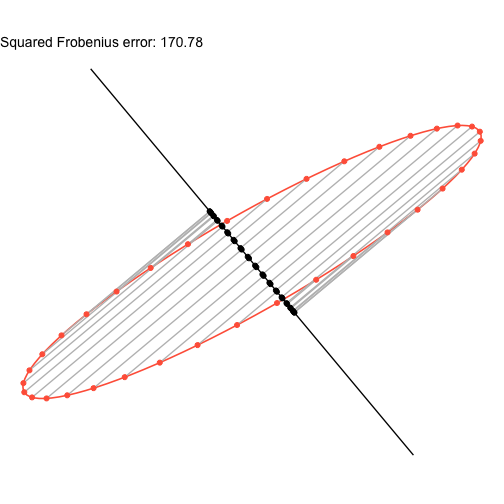
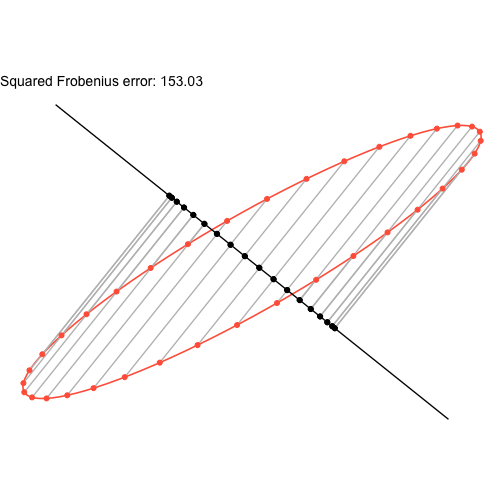
typo

diff --git a/_posts/2026-11-10-pca.md b/_posts/2026-11-10-pca.md
@@ -23,7 +23,7 @@ Suppose we have a $$n$$ vectors $$X_1,\ldots, X_n\in\mathbb{R}^p$$. I'll assume 
 
 $$
 \begin{align*}
- 	\mathbf{X} = \begin{pmatrix}X_1^\top&\vdots&X_n^\top)\end{pmatrix}\in\mathbb{R}^{n\times p}.
+ 	\mathbf{X} = \begin{pmatrix}X_1^\top \\ \vdots \\ X_n^\top)\end{pmatrix}\in\mathbb{R}^{n\times p}.
 \end{align*}
 $$
  
